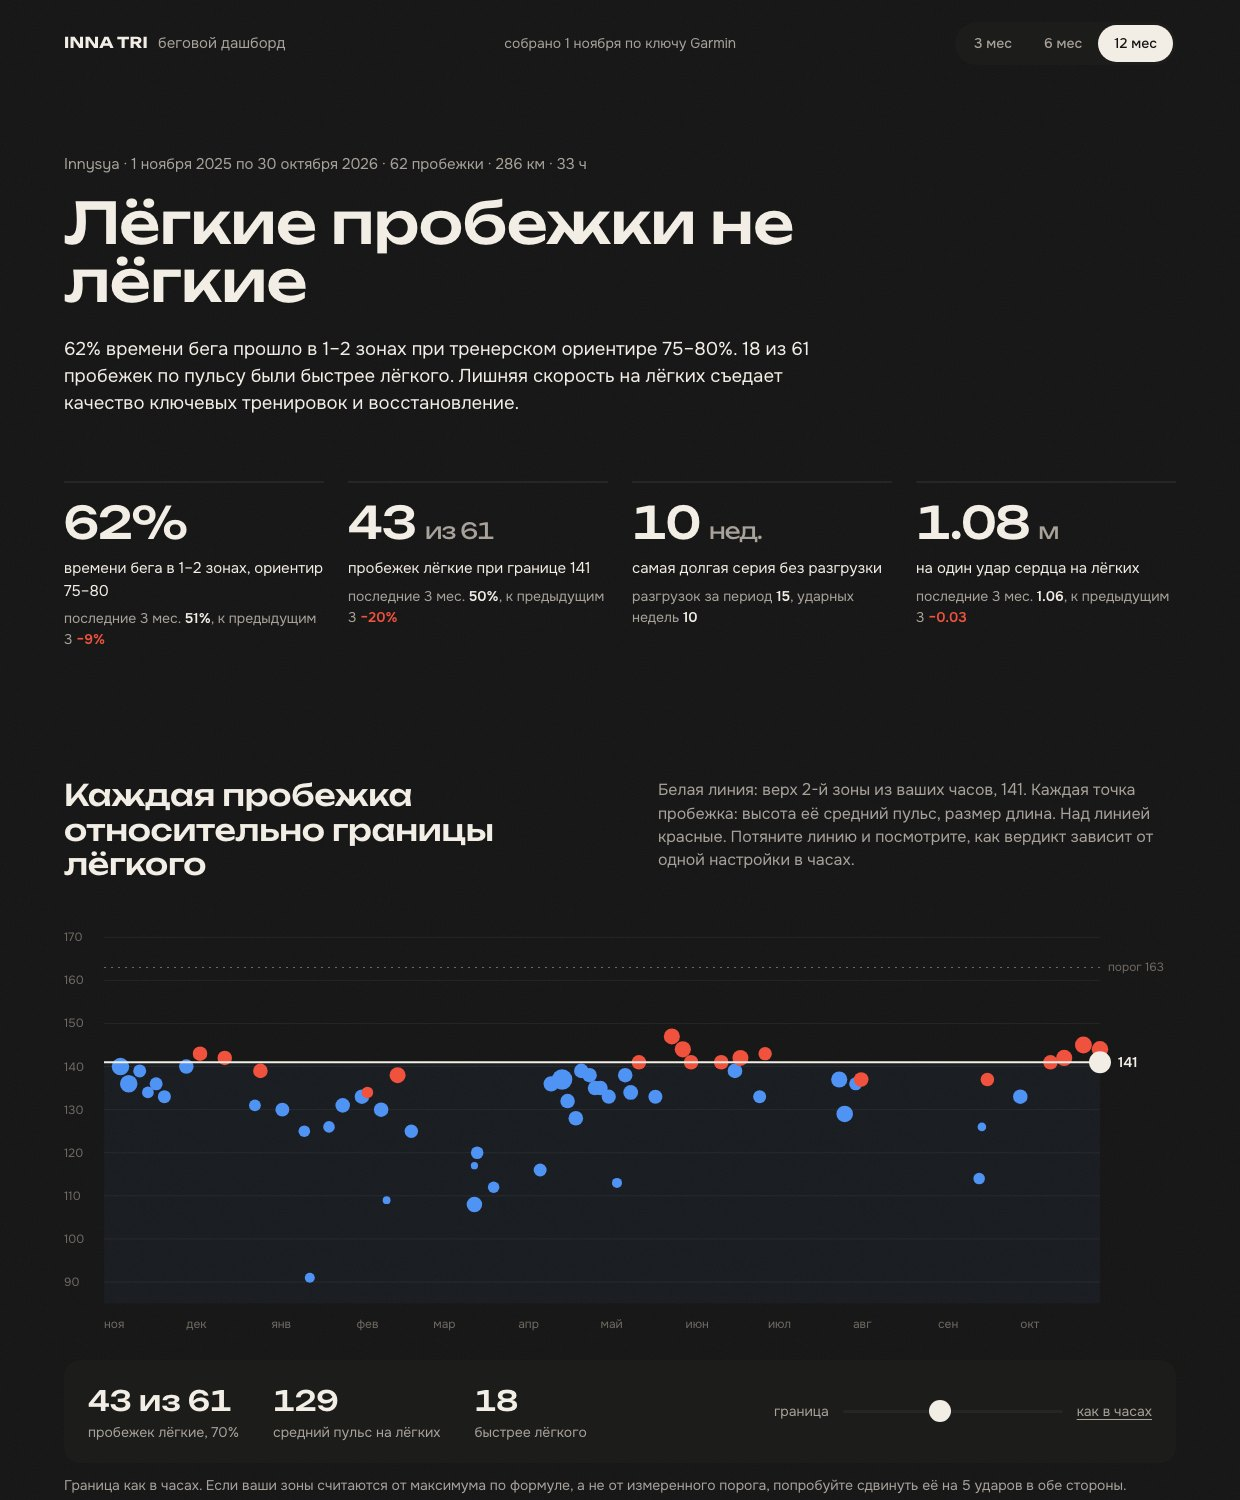
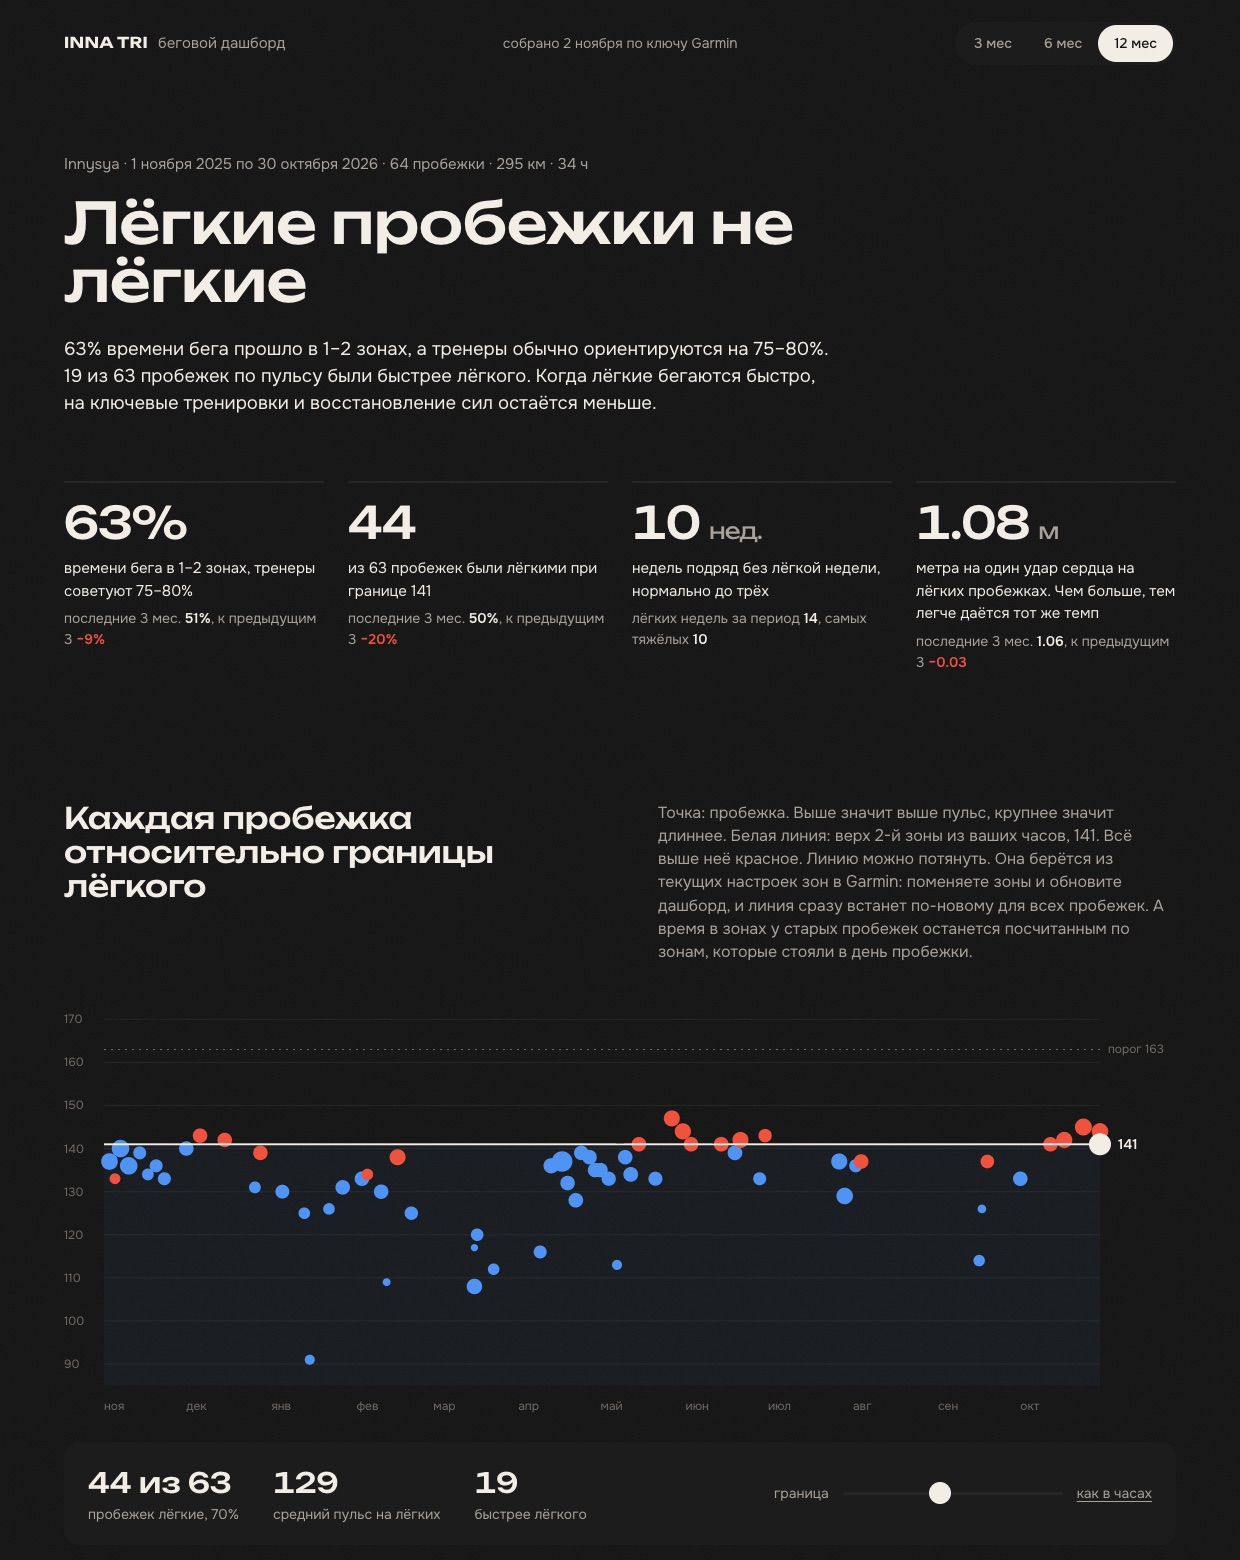
dashboard guide: fresh RU screenshots and OG; EN/UA prompts translate script warnings

diff --git a/guides/dashboard/index.html b/guides/dashboard/index.html
@@ -15,7 +15,7 @@
   <link rel="alternate" hreflang="x-default" href="https://innatri.com/guides/dashboard/">
   <meta property="og:title" content="Беговой дашборд по ключу Garmin: год твоего бега на одной странице">
   <meta property="og:description" content="Инструкция: ключ Garmin, Claude Code и промпт, который собирает год вашего бега в одну страницу. Бесплатно, без регистрации, данные остаются у вас.">
-  <meta property="og:image" content="https://innatri.com/assets/guides/dashboard/dash-hero.jpg">
+  <meta property="og:image" content="https://innatri.com/assets/guides/dashboard/og-ru.jpg">
   <meta property="og:url" content="https://innatri.com/guides/dashboard/">
   <meta property="og:type" content="website">
   <meta property="og:site_name" content="InnaTri">
@@ -23,7 +23,7 @@
   <meta name="twitter:card" content="summary_large_image">
   <meta name="twitter:title" content="Беговой дашборд по ключу Garmin">
   <meta name="twitter:description" content="Ключ Garmin, Claude Code и промпт, который собирает дашборд с вердиктом тренера.">
-  <meta name="twitter:image" content="https://innatri.com/assets/guides/dashboard/dash-hero.jpg">
+  <meta name="twitter:image" content="https://innatri.com/assets/guides/dashboard/og-ru.jpg">
   <link rel="icon" href="/favicon.ico" type="image/x-icon" sizes="96x96">
   <link rel="icon" href="/assets/favicon.png?v=4" type="image/png" sizes="96x96">
   <link rel="apple-touch-icon" href="/apple-touch-icon.png">
@@ -225,7 +225,7 @@
       <p class="note">Без регистрации · данные остаются на вашем компьютере</p>
     </div>
   </div>
-  <figure class="d-shot"><img src="/assets/guides/dashboard/dash-hero.jpg" width="1240" height="1500" alt="Верх дашборда: вердикт «Лёгкие пробежки не лёгкие», четыре числа и график всех пробежек года относительно границы лёгкого пульса" fetchpriority="high" decoding="async"></figure>
+  <figure class="d-shot"><img src="/assets/guides/dashboard/dash-hero.jpg?v=2" width="1240" height="1560" alt="Верх дашборда: вердикт «Лёгкие пробежки не лёгкие», четыре числа и график всех пробежек года относительно границы лёгкого пульса" fetchpriority="high" decoding="async"></figure>
 </section>
 
 <section class="sec sec-sur" aria-labelledby="answers-title">
@@ -242,7 +242,7 @@
       <div class="read"><h3>Форма и восстановление</h3><p>Метров на удар сердца: растёт ли форма, без всяких тестов. И пульс покоя по неделям: успеваете ли вы восстанавливаться после тяжёлых.</p></div>
     </div>
     <figure class="demo-video"><video autoplay muted loop playsinline preload="metadata" poster="/assets/guides/dashboard/demo-line-ru.jpg" width="1080" height="622" aria-label="Видео: линию лёгкого пульса тянут вниз и вверх, точки пробежек перекрашиваются, цифры пересчитываются"><source src="/assets/guides/dashboard/demo-line-ru.mp4" type="video/mp4"></video><figcaption>Так работает линия лёгкого. Граница из часов 141, лёгких 98 пробежек из 144. Сдвиньте её на шесть ударов вниз, и лёгких остаётся 71.</figcaption></figure>
-    <figure class="tape"><img src="/assets/guides/dashboard/dash-tape.jpg" width="1240" height="1130" loading="lazy" decoding="async" alt="Лента недель и графики по месяцам: доля времени в зонах, пульс на лёгких пробежках"><figcaption>Дашборд на моих данных за один беговой сезон. Внизу два раздела: «Как считали», где подписан каждый порог, и «Чего этот дашборд не знает».</figcaption></figure>
+    <figure class="tape"><img src="/assets/guides/dashboard/dash-tape.jpg?v=2" width="1240" height="1130" loading="lazy" decoding="async" alt="Лента недель и графики по месяцам: доля времени в зонах, пульс на лёгких пробежках"><figcaption>Дашборд на моих данных за один беговой сезон. Внизу два раздела: «Как считали», где подписан каждый порог, и «Чего этот дашборд не знает».</figcaption></figure>
   </div>
 </section>
 

diff --git a/ua/guides/dashboard/index.html b/ua/guides/dashboard/index.html
@@ -329,7 +329,7 @@ Step 3. Data
 Run fetch_garmin.py --months 12. If Garmin returns 401, the key was copied incompletely or has expired: ask me to check the file. If it returns 500, the script shrinks the batches on its own, just let it finish. At the end tell me how many activities and days came back.
 
 Step 4. Dashboard
-Run build_dashboard.py --lang uk. If it warns that the zones in my watch are based on maximum heart rate, pass that warning to me word for word. Open dashboard.html in my browser.
+Run build_dashboard.py --lang uk. If it warns that the zones in my watch are based on maximum heart rate, translate that warning into Ukrainian for me without changing its meaning (the scripts print in Russian; that is expected). Open dashboard.html in my browser.
 
 Step 5. Done
 Tell me the dashboard is ready and give me the full path to dashboard.html. Do not open dashboard.html or the data folder yourself and do not retell my numbers: I read the dashboard in my browser, and my data stays on my computer. Do not advise anything about my training; the coach does the reading.

diff --git a/en/guides/dashboard/index.html b/en/guides/dashboard/index.html
@@ -333,7 +333,7 @@ Step 3. Data
 Run fetch_garmin.py --months 12. If Garmin returns 401, the key was copied incompletely or has expired: ask me to check the file. If it returns 500, the script shrinks the batches on its own, just let it finish. At the end tell me how many activities and days came back.
 
 Step 4. Dashboard
-Run build_dashboard.py --lang en. If it warns that the zones in my watch are based on maximum heart rate, pass that warning to me word for word. Open dashboard.html in my browser.
+Run build_dashboard.py --lang en. If it warns that the zones in my watch are based on maximum heart rate, translate that warning into English for me without changing its meaning (the scripts print in Russian; that is expected). Open dashboard.html in my browser.
 
 Step 5. Done
 Tell me the dashboard is ready and give me the full path to dashboard.html. Do not open dashboard.html or the data folder yourself and do not retell my numbers: I read the dashboard in my browser, and my data stays on my computer. Do not advise anything about my training; the coach does the reading.
